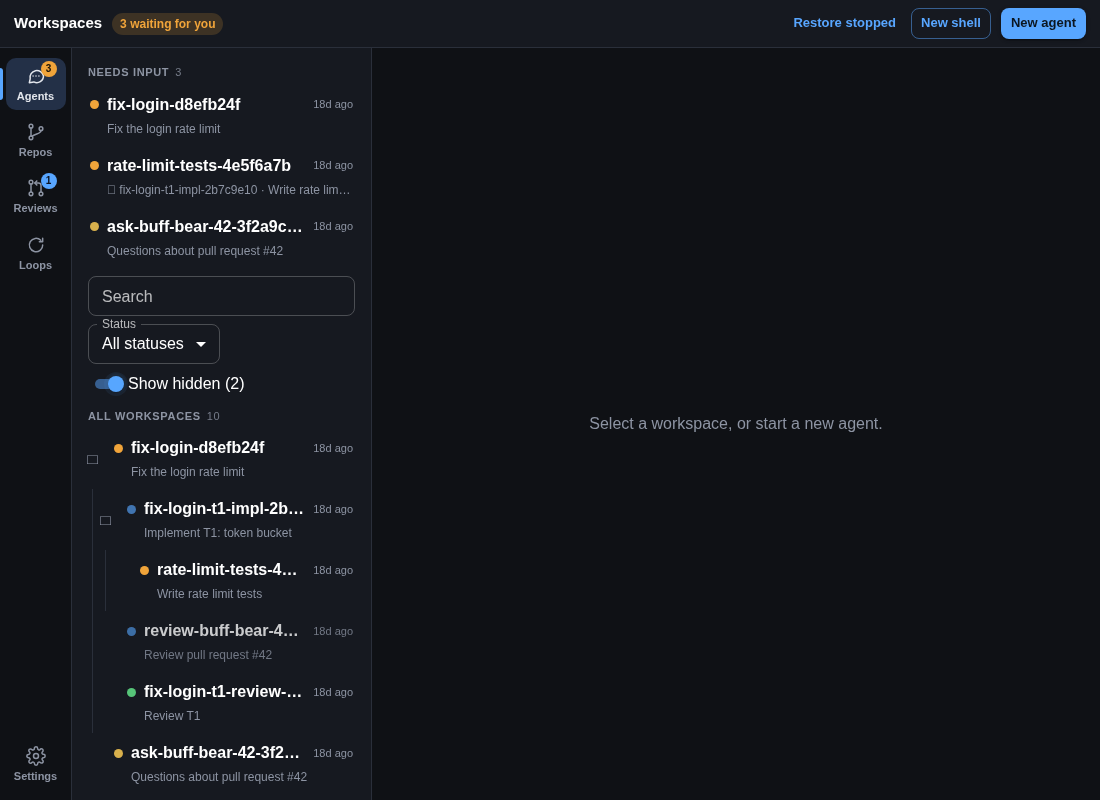
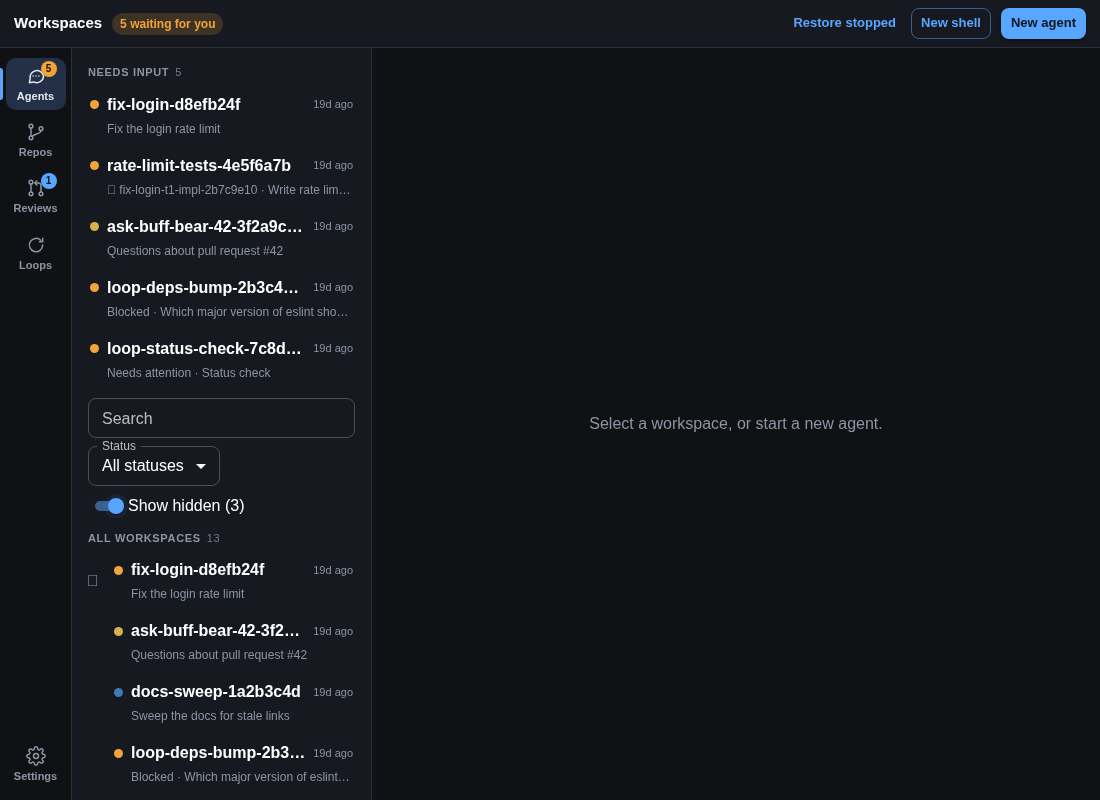
docs: retake Agents tree screenshots with loop-run entries (ADR 0058)

diff --git a/desktop/README.md b/desktop/README.md
@@ -280,6 +280,9 @@ The sample listing is a tree for the Agents list ([ADR 0058](../docs/adrs/0058-w
 `fix-login` has two generations of children, one of which needs input,
 and a hidden review child; `lint-sweep` is hidden and has a visible
 child, so it shows as a dimmed context row until Show hidden is on.
+Three loop runs sit beside them: a blocked and a needs-attention run in
+Needs input (shown with a Blocked or Needs attention prefix), and one done
+run that is hidden.
 
 For web mode (Workspace Online), load `test/web-mock.js` after the Tauri
 mock. It serves `/api` and a WebSocket from the same handlers, and
@@ -300,9 +303,9 @@ default), `"granted"`, `"default"`, `"denied"` or `"unsupported"`.
 
 The Agents list as a tree ([ADR 0058](../docs/adrs/0058-workspace-tree-and-filters.md)), from the mock data:
 
-- [Tree at 1100px](docs/tree-list.png): Needs input on top, `fix-login` expanded to show its children.
-- [Search](docs/tree-list-search.png): `lint` typed; the hidden `lint-sweep` stays as a dimmed context row.
-- [Show hidden](docs/tree-list-hidden.png): hidden entries in the tree.
+- [Tree at 1100px](docs/tree-list.png): Needs input on top (five entries, including the blocked and needs-attention loop runs), `fix-login` expanded to show its children.
+- [Search](docs/tree-list-search.png): `lint` typed; the hidden `lint-sweep` stays as a dimmed context row, and the blocked loop run matches on `eslint`.
+- [Show hidden](docs/tree-list-hidden.png): the three hidden entries in the tree.
 - [Status filter](docs/tree-list-status.png): Working only.
 - [At 360px](docs/tree-list-mobile.png): the filter bar wrapped, search on its own row.
 
